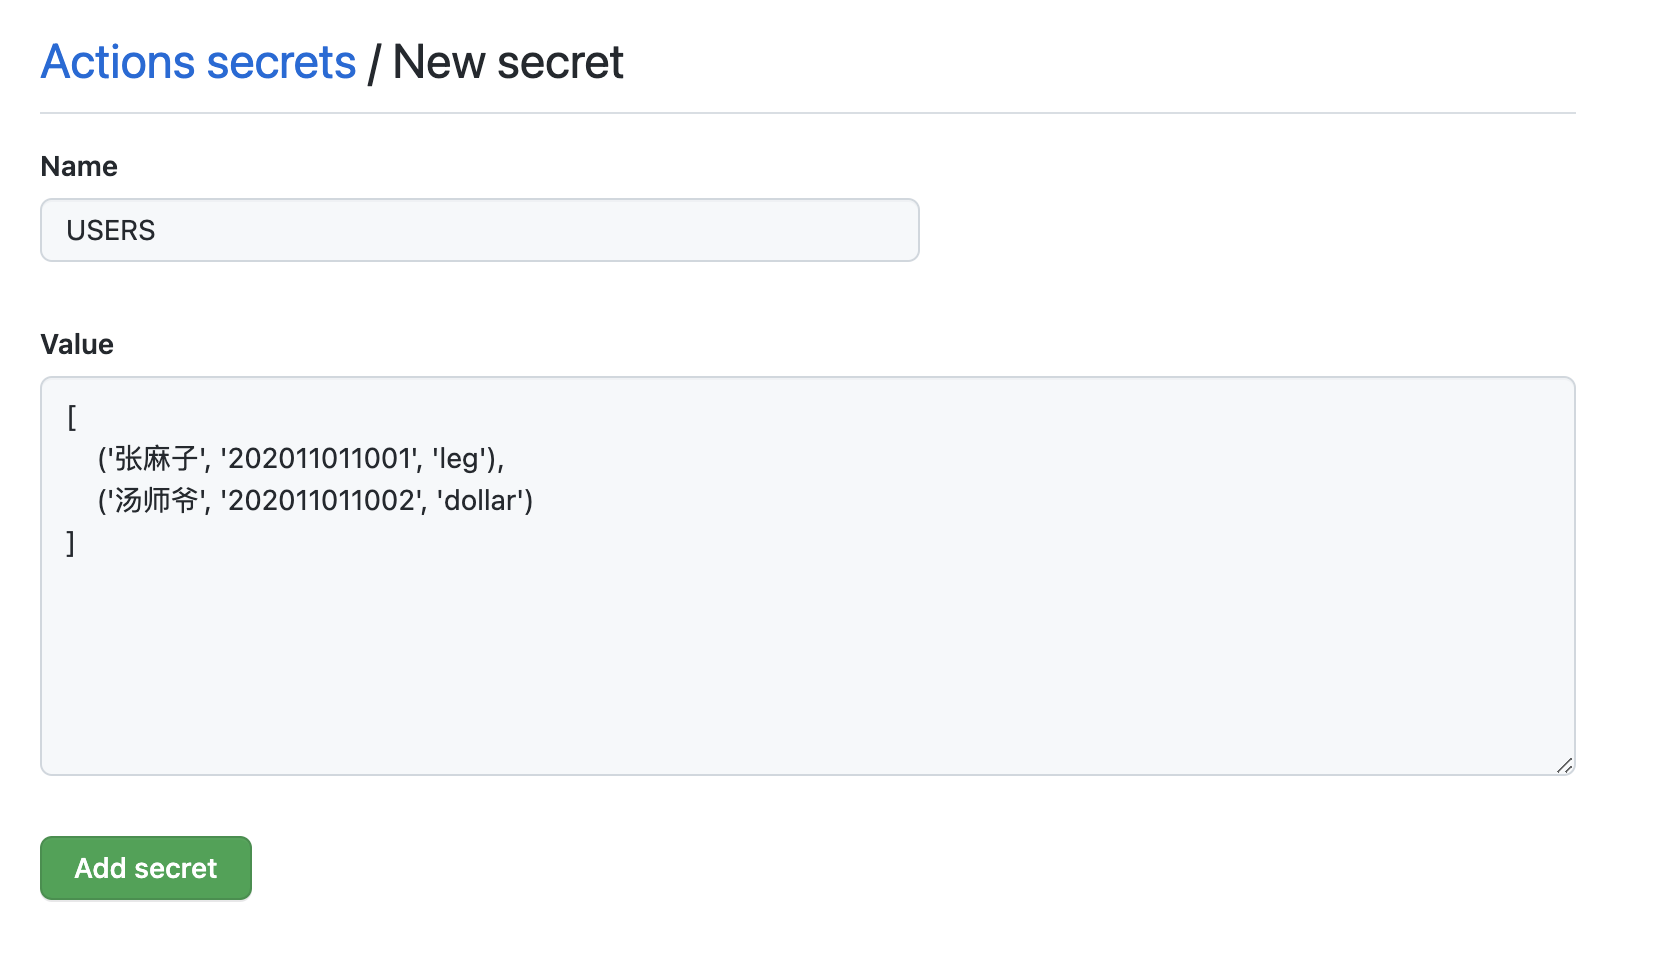
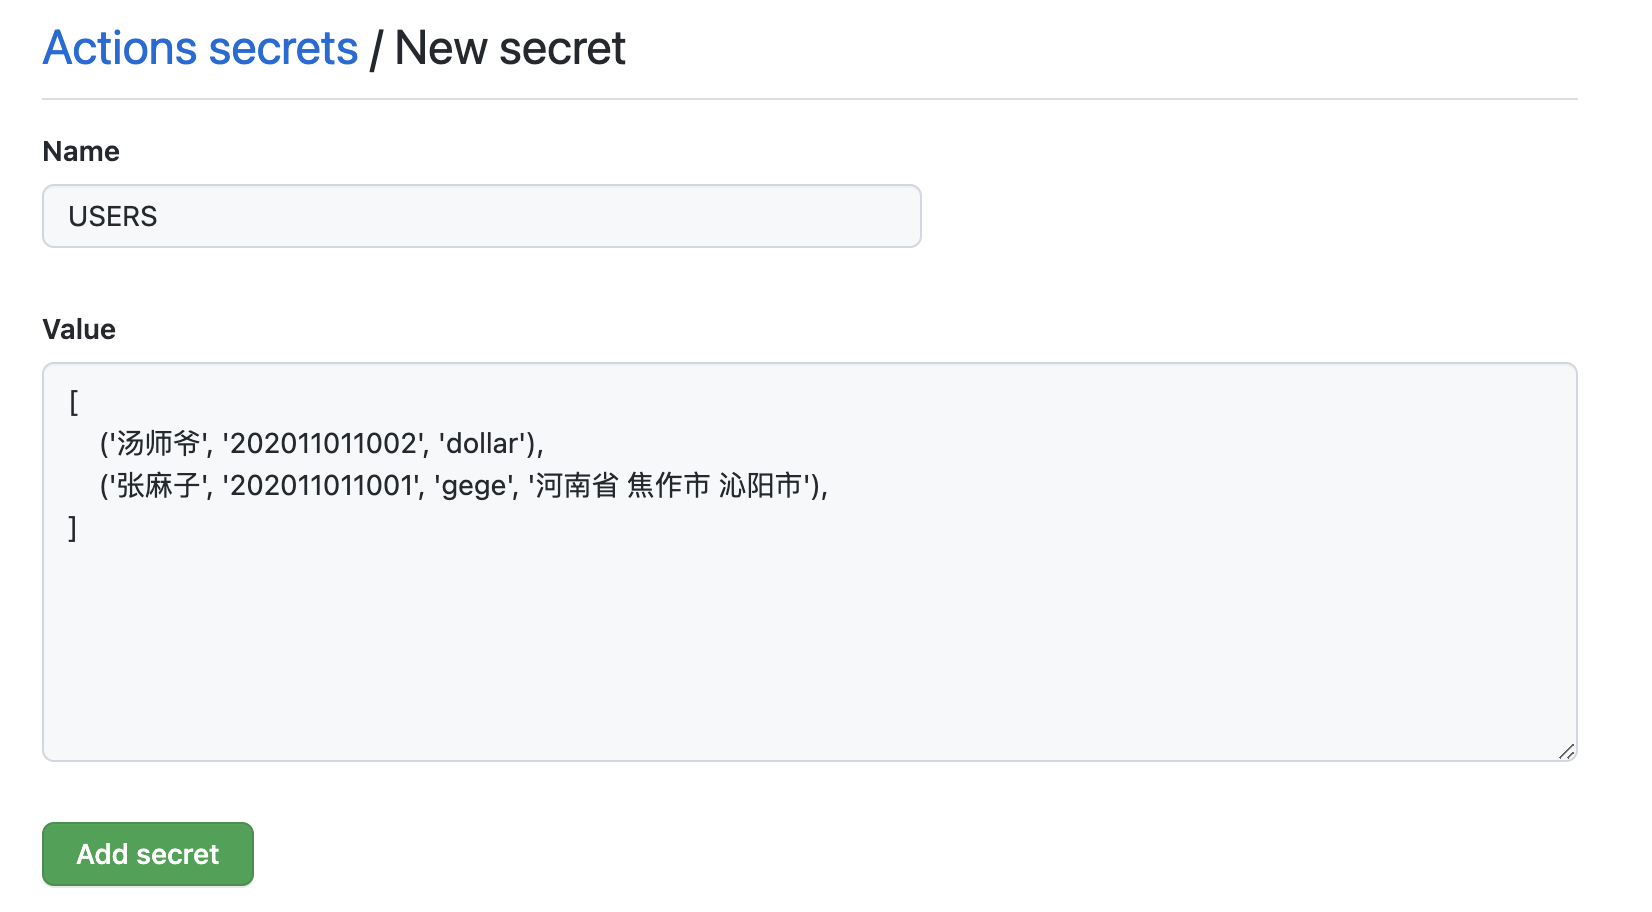
更新在校填写，浙江师范大学校本部

diff --git a/main.py b/main.py
@@ -9,6 +9,7 @@ FILL_CHECK_API = 'http://zyt.zjnu.edu.cn/H5/ZJSFDX/CheckFillIn.aspx'
 
 users = eval(os.environ['USERS'])
 
+
 HEADER = {
     'Accept-Encoding': 'gzip, deflate',
     'Accept-Language': 'zh-CN, zh; q=0.9',
@@ -56,8 +57,8 @@ USER_DATA = {
     'DATA_9': '是，已经接种加强针',
     'DATA_16': '17周岁以上',
     'DATA_12': '',
-    'DATA_13': '尚未返校',
-    'DATA_14': '河南省 焦作市 沁阳市',
+    'DATA_13': '',
+    'DATA_14': '',
     'DATA_15': '我已知晓并如实填报',
     'hidDATA_1': '体温正常',
     'hidDATA_2': '正常',
@@ -71,12 +72,13 @@ USER_DATA = {
     'hidDATA_10': '否',
     'hidDATA_11': '',
     'hidDATA_12': '',
-    'hidDATA_13': '尚未返校',
-    'hidDATA_14': '河南省 焦作市 沁阳市',
+    'hidDATA_13': '',
+    'hidDATA_14': '',
     'hidDATA_15': '我已知晓并如实填报',
     'hidDATA_16': '17周岁以上',
     'hidDATA_17': '无法获取当前地理位置'
 }
+SCHOOL = '浙江师范大学本部校区'
 
 
 def get_token():
@@ -90,9 +92,25 @@ def get_token():
         print('获取登陆页面发生错误', e)
 
 
-def post_login(username, password):
+def post_login(username, password, loc):
     # hdnToken: 隐藏的一个token，每天会更新
     """data中的三个变量: hdnToken UserText Password"""
+
+    """在学校"""
+    if loc == '':
+        USER_DATA['DATA_13'] = SCHOOL
+        USER_DATA['DATA_14'] = ''
+        USER_DATA['hidDATA_13'] = SCHOOL
+        USER_DATA['hidDATA_14'] = ''
+        USER_DATA['hidDATA_17'] = '浙江省 金华市 婺城区'
+    else:
+        """在家里"""
+        USER_DATA['DATA_13'] = '尚未返校'
+        USER_DATA['DATA_14'] = loc
+        USER_DATA['hidDATA_13'] = '尚未返校'
+        USER_DATA['hidDATA_14'] = loc
+        USER_DATA['hidDATA_17'] = loc
+
     try:
         login_in = session.post(
             url=LOGIN_API,
@@ -155,8 +173,8 @@ def check_submit():
     return False
 
 
-def auto_clock(username, password):
-    if post_login(username, password):
+def auto_clock(username, password, loc):
+    if post_login(username, password, loc):
         if not check_submit():
             post_info()
             if not check_submit():
@@ -167,8 +185,12 @@ if __name__ == '__main__':
     token = get_token()
     LOGIN_DATA['hdnToken'] = token
     for person in users:
-        name, uname, passwd = person
+        location = ''
+        if len(person) == 3:
+            name, uname, passwd = person
+        else:
+            name, uname, passwd, location = person
         print(name, '正在打卡...')
-        auto_clock(uname, passwd)
+        auto_clock(uname, passwd, location)
         print()
 

diff --git a/README.md b/README.md
@@ -1,5 +1,4 @@
 # 浙江师范大学-疫情打卡自动填报 Beta版本
-<h2>待完善...</h2></br>
 浙江师范大学 每日信息填报自动打卡脚本，一次设置，自动打卡，再也不怕班长催，导员赶...</br>
 免责声明：仅供学习技术交流，不作任何商业用途 </br>
 
@@ -42,16 +41,18 @@
 <img src='image/secrets.png'></img></br>
 
 3、添加密钥
-添加学生的基本信息，包括学号和密码
-
+添加学生的基本信息，包括学号和密码  
+第四个参数可选
+- 如果在学校，则可以不填
+- 如果在家里，则填写家里的地址: 例如 **河南省 焦作市 沁阳市**  
 **Name:**</br> 
-USERS
+  USERS
 </br>
 **Value:**
 ```python3
 [
-    ('张麻子', '202011011001', 'gege'),
-    ('汤师爷', '202011011002', 'dollar')
+    ('汤师爷', '202011011002', 'dollar'),
+    ('张麻子', '202011011001', 'gege', '河南省 焦作市 沁阳市'),
 ]
 ```
 <img src='image/users.png'></img></br>
@@ -63,7 +64,7 @@ USERS
 运行成功...</br>
 如果运行失败可以去查看一下错误信息，联系作者...
 
-### 参数修改
+### 参数修改(默认不需要修改)
 1、修改打卡时间
 在 .github/workflows/main.yml 中来设置每天运行的时间：
 ```bash
